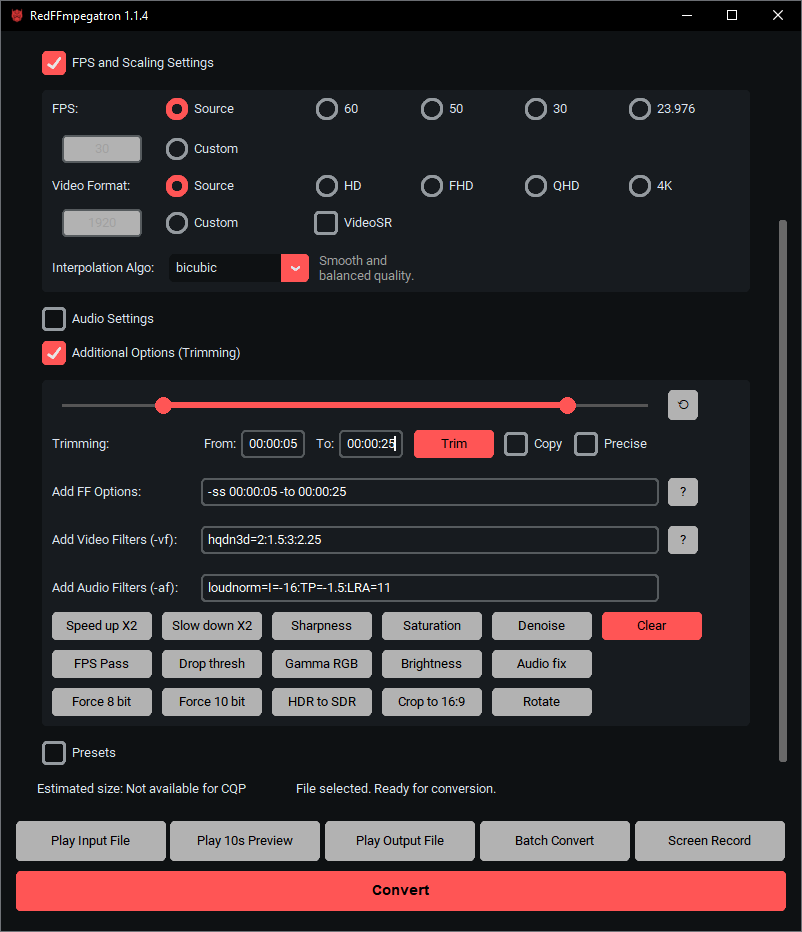
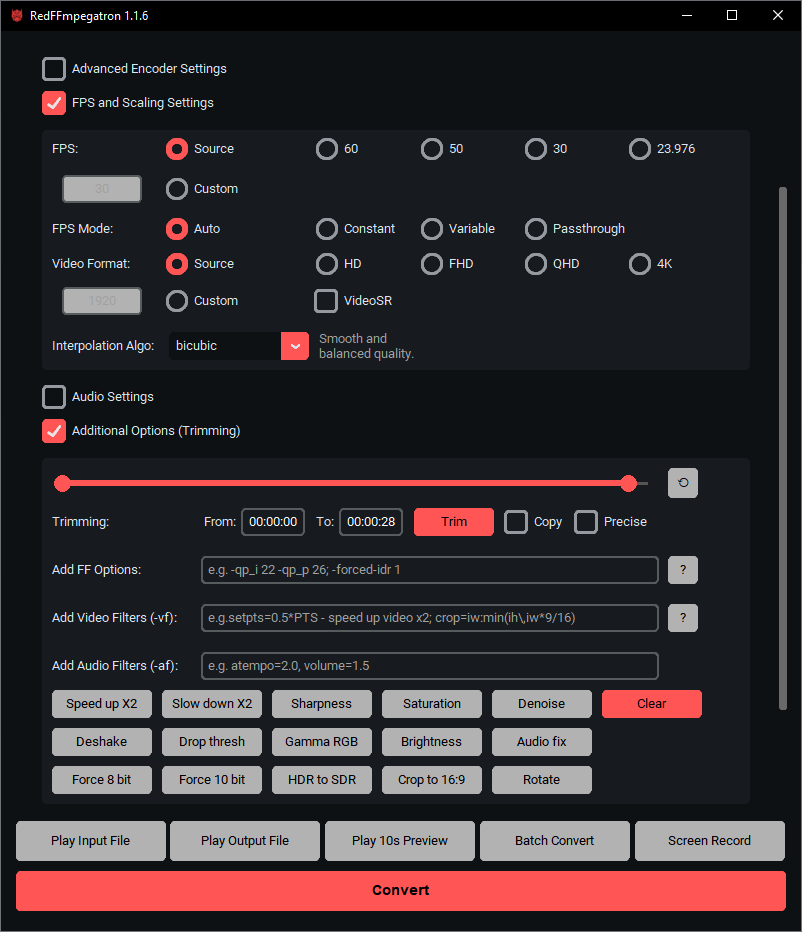
Release 1.1.6

diff --git a/RedFFmpegatron.py b/RedFFmpegatron.py
@@ -527,7 +527,7 @@ class VideoConverterApp:
         self.batch_files = []
         self.video_metadata_cache = {}
         self.master = master
-        master.title("RedFFmpegatron 1.1.5")
+        master.title("RedFFmpegatron 1.1.6")
         master.geometry("800x700")
         master.minsize(800, 700)
         master.maxsize(800, 900)
@@ -638,6 +638,7 @@ class VideoConverterApp:
         # FPS and Scaling Settings
         self.fps_option.trace_add("write", lambda *args: self._on_setting_changed())
         self.custom_fps.trace_add("write", lambda *args: self._on_setting_changed())
+        self.fps_mode.trace_add("write", lambda *args: self._on_setting_changed())
         self.video_format_option.trace_add(
             "write", lambda *args: self._on_setting_changed()
         )
@@ -681,6 +682,7 @@ class VideoConverterApp:
         self.enable_fps_scale_options = ctk.BooleanVar(value=False)
         self.fps_option = ctk.StringVar(value="source")
         self.custom_fps = ctk.StringVar(value="30")
+        self.fps_mode = ctk.StringVar(value="auto")
         self.video_format_option = ctk.StringVar(value="source")
         self.custom_video_width = ctk.StringVar(value="1920")
         self.interpolation_algo = ctk.StringVar(value="bicubic")
@@ -738,6 +740,8 @@ class VideoConverterApp:
         # Screen recording variables
         self.is_recording = False
         self.recording_process = None
+        # Preview 10s
+        self.preview_process = None
 
     def _create_widgets(self):
         # Build the entire GUI interface
@@ -1304,9 +1308,32 @@ class VideoConverterApp:
         self.custom_fps_entry.grid(row=2, column=0, sticky="w", padx=20)
         self.custom_fps_entry.configure(state="disabled")
 
+        # FPS Mode
+        ctk.CTkLabel(self.fps_scale_options_frame, text="FPS Mode:").grid(
+            row=3, column=0, sticky="w", padx=10, pady=5
+        )
+
+        fps_mode_options = [
+            ("Auto", "auto"),
+            ("Constant", "cfr"),
+            ("Variable", "vfr"),
+            ("Passthrough", "passthrough"),
+        ]
+
+        for i, (text, value) in enumerate(fps_mode_options):
+            rb = ctk.CTkRadioButton(
+                self.fps_scale_options_frame,
+                text=text,
+                variable=self.fps_mode,
+                value=value,
+                fg_color=ACCENT_RED,
+                hover_color=HOVER_RED,
+            )
+            rb.grid(row=3, column=i + 1, sticky="w", padx=2)
+
         # Video Format
         ctk.CTkLabel(self.fps_scale_options_frame, text="Video Format:").grid(
-            row=3, column=0, sticky="w", padx=10, pady=2
+            row=4, column=0, sticky="w", padx=10, pady=2
         )
         video_format_options = [
             ("Source", "source"),
@@ -1326,7 +1353,7 @@ class VideoConverterApp:
                 fg_color=ACCENT_RED,
                 hover_color=HOVER_RED,
             )
-            rb.grid(row=3, column=i + 1, sticky="w", padx=2)
+            rb.grid(row=4, column=i + 1, sticky="w", padx=2)
 
         # Custom Video Format
         rb_custom_video = ctk.CTkRadioButton(
@@ -1338,7 +1365,7 @@ class VideoConverterApp:
             fg_color=ACCENT_RED,
             hover_color=HOVER_RED,
         )
-        rb_custom_video.grid(row=4, column=1, sticky="w", padx=2, pady=10)
+        rb_custom_video.grid(row=5, column=1, sticky="w", padx=2, pady=10)
 
         self.custom_video_width_entry = ctk.CTkEntry(
             self.fps_scale_options_frame,
@@ -1348,12 +1375,12 @@ class VideoConverterApp:
             fg_color=ACCENT_GREY,
             text_color=PLACEHOLDER_COLOR,
         )
-        self.custom_video_width_entry.grid(row=4, column=0, sticky="w", padx=20)
+        self.custom_video_width_entry.grid(row=5, column=0, sticky="w", padx=20)
         self.custom_video_width_entry.configure(state="disabled")
 
         # Interpolation
         ctk.CTkLabel(self.fps_scale_options_frame, text="Interpolation Algo:").grid(
-            row=5, column=0, sticky="w", padx=10, pady=10
+            row=6, column=0, sticky="w", padx=10, pady=10
         )
 
         self.interpolation_description = ctk.StringVar(
@@ -1373,7 +1400,7 @@ class VideoConverterApp:
             dropdown_fg_color=SECONDARY_BG,
             dropdown_hover_color=ACCENT_RED,
         )
-        interp_option_menu.grid(row=5, column=1, sticky="ew", padx=5, pady=2)
+        interp_option_menu.grid(row=6, column=1, sticky="ew", padx=5, pady=2)
 
         ctk.CTkLabel(
             self.fps_scale_options_frame,
@@ -1382,7 +1409,7 @@ class VideoConverterApp:
             wraplength=100,
             anchor="w",
             justify="left",
-        ).grid(row=5, column=2, sticky="w", padx=5)
+        ).grid(row=6, column=2, sticky="w", padx=5)
 
         # VideoSR Checkbox
         self.videosr_checkbox = ctk.CTkCheckBox(
@@ -1393,14 +1420,14 @@ class VideoConverterApp:
             fg_color=ACCENT_RED,
             hover_color=HOVER_RED,
         )
-        self.videosr_checkbox.grid(row=4, column=2, sticky="w")
+        self.videosr_checkbox.grid(row=5, column=2, sticky="w")
 
         # VideoSR Options Frame
         self.videosr_options_frame = ctk.CTkFrame(
             self.fps_scale_options_frame, fg_color="transparent"
         )
         self.videosr_options_frame.grid(
-            row=5, column=0, columnspan=4, sticky="ew", padx=10, pady=5
+            row=6, column=0, columnspan=4, sticky="ew", padx=10, pady=5
         )
 
         # Algorithm
@@ -1830,11 +1857,13 @@ class VideoConverterApp:
             row=6, column=0, columnspan=3, sticky="w", padx=10, pady=(0, 10)
         )
 
-        # FPS passtrough button
+        # Deshake video
         ctk.CTkButton(
             quick_buttons_frame_2,
-            text="FPS Pass",
-            command=lambda: self._add_additional_option("-fps_mode passthrough"),
+            text="Deshake",
+            command=lambda: self._add_video_filter(
+                "deshake=rx=32:ry=32:edge=3:blocksize=32:contrast=200:search=0"
+            ),
             fg_color=ACCENT_GREY,
             hover_color=HOVER_GREY,
             text_color=TEXT_COLOR_B,
@@ -2037,17 +2066,6 @@ class VideoConverterApp:
         self.play_input_button.pack(side="left", expand=True, fill="x", padx=(0, 2))
         self.play_input_button.configure(command=self._play_input_file)
 
-        self.play10s_button = ctk.CTkButton(
-            self.play_buttons_frame,
-            text="Play 10s Preview",
-            fg_color=ACCENT_GREY,
-            hover_color=HOVER_GREY,
-            text_color=TEXT_COLOR_B,
-            height=40,
-        )
-        self.play10s_button.pack(side="left", expand=True, fill="x", padx=(2, 2))
-        self.play10s_button.configure(command=self._create_10s_preview)
-
         self.play_output_button = ctk.CTkButton(
             self.play_buttons_frame,
             text="Play Output File",
@@ -2058,6 +2076,17 @@ class VideoConverterApp:
         )
         self.play_output_button.pack(side="left", expand=True, fill="x", padx=(2, 2))
         self.play_output_button.configure(command=self._play_output_file)
+
+        self.play10s_button = ctk.CTkButton(
+            self.play_buttons_frame,
+            text="Play 10s Preview",
+            fg_color=ACCENT_GREY,
+            hover_color=HOVER_GREY,
+            text_color=TEXT_COLOR_B,
+            height=40,
+        )
+        self.play10s_button.pack(side="left", expand=True, fill="x", padx=(2, 2))
+        self.play10s_button.configure(command=self._create_10s_preview)
 
         self.batch_convert_button = ctk.CTkButton(
             self.play_buttons_frame,
@@ -2152,6 +2181,27 @@ class VideoConverterApp:
             and self.batch_converter_window.is_converting
         ):
             self.batch_converter_window.cancel_batch_conversion()
+
+    def _cancel_preview(self):
+        """Cancel preview creation"""
+        if self.is_creating_preview and self.preview_process:
+            try:
+                self.preview_process.terminate()
+                self.preview_process.wait(timeout=2)
+            except (subprocess.TimeoutExpired, Exception):
+                try:
+                    self.preview_process.kill()
+                except Exception:
+                    pass
+
+            self.is_creating_preview = False
+            self.preview_process = None
+            self.status_text.set("Preview creation cancelled")
+            self.ffmpeg_output.set("")
+            self.progress_frame.grid_remove()
+            self.play10s_button.configure(
+                text="Play 10s Preview", fg_color=ACCENT_GREY, hover_color=HOVER_GREY
+            )
 
     def _open_batch_converter(self):
         if (
@@ -2394,11 +2444,18 @@ class VideoConverterApp:
 
     def _create_10s_preview(self):
         """Create a 10-second preview with current settings"""
+        if self.is_creating_preview:
+            # If preview is being created, cancel it
+            self._cancel_preview()
+            return
+
+        self.preview_process = None
+
         if self.trim_streamcopy.get():
             messagebox.showerror("Error", "Preview is not available in Streamcopy mode")
             return
 
-        if self.is_converting or self.is_creating_preview:
+        if self.is_converting:
             messagebox.showerror("Error", "Please wait until current process completes")
             return
 
@@ -2520,10 +2577,16 @@ class VideoConverterApp:
             self.progress_label.configure(text="0%")
             self.progress_frame.grid()
 
+            # Update button to show cancel state
+            self.play10s_button.configure(
+                text="Cancel Preview", fg_color=ACCENT_RED, hover_color=HOVER_RED
+            )
+
             # Start encoding in separate thread
             preview_thread = Thread(
                 target=self._run_preview_encoding, args=(encode_cmd, temp_encoded)
             )
+            preview_thread.daemon = True
             preview_thread.start()
 
         except Exception as e:
@@ -2793,6 +2856,10 @@ class VideoConverterApp:
                 if custom_fps:
                     self.custom_fps.set(custom_fps)
 
+                fps_mode = settings.get("fps_mode", "")
+                if fps_mode:
+                    self.fps_mode.set(fps_mode)
+
                 video_format_option = settings.get("video_format_option", "")
                 if video_format_option:
                     self.video_format_option.set(video_format_option)
@@ -2917,6 +2984,7 @@ class VideoConverterApp:
                 # FPS and scaling settings
                 "fps_option": self.fps_option.get(),
                 "custom_fps": self.custom_fps.get(),
+                "fps_mode": self.fps_mode.get(),
                 "video_format_option": self.video_format_option.get(),
                 "custom_video_width": self.custom_video_width.get(),
                 # Encoder Flags
@@ -2925,7 +2993,7 @@ class VideoConverterApp:
                 "preanalysis": self.preanalysis.get(),
                 "max_pa": self.max_pa.get(),
                 "smart_access_video": self.smart_access_video.get(),
-                "version": "1.1.5",
+                "version": "1.1.6",
             }
 
             with open(settings_file, "w", encoding="utf-8") as file:
@@ -3219,6 +3287,9 @@ class VideoConverterApp:
 
         if vf_filters:
             command.extend(["-vf", ",".join(vf_filters)])
+
+        if self.fps_mode.get() != "auto":
+            command.extend(["-fps_mode", self.fps_mode.get()])
 
         # AMF encoder specific settings
         codec_map = {"hevc": "hevc_amf", "av1": "av1_amf"}
@@ -4426,22 +4497,37 @@ class VideoConverterApp:
                 encoding="utf-8",
                 errors="replace",
             )
+            self.preview_process = process
 
             # Process output in real-time
             for line in process.stdout:
+                if not self.is_creating_preview:  # Check if cancelled
+                    process.terminate()
+                    break
+
                 if line:
-                    self.master.after(0, lambda: self.ffmpeg_output.set(line))
-                    self.master.after(0, lambda: self._update_preview_progress(line))
+                    self.master.after(
+                        0, lambda line_text=line: self.ffmpeg_output.set(line_text)
+                    )
+                    self.master.after(
+                        0,
+                        lambda line_text=line: self._update_preview_progress(line_text),
+                    )
 
             process.wait()
 
-            if process.returncode == 0:
+            if process.returncode == 0 and self.is_creating_preview:
                 self.master.after(
                     0, lambda: self.status_text.set("Preview created successfully!")
                 )
                 self.master.after(0, lambda: self.ffmpeg_output.set(""))
                 # Play the result
-                os.startfile(output_path)
+                if os.path.exists(output_path):
+                    os.startfile(output_path)
+            elif not self.is_creating_preview:
+                self.master.after(
+                    0, lambda: self.status_text.set("Preview creation cancelled")
+                )
             else:
                 self.master.after(
                     0, lambda: self.status_text.set("Preview creation failed!")
@@ -4453,6 +4539,16 @@ class VideoConverterApp:
         finally:
             self.master.after(0, lambda: self.progress_frame.grid_remove())
             self.is_creating_preview = False
+            self.preview_process = None
+            # Reset button to normal state
+            self.master.after(
+                0,
+                lambda: self.play10s_button.configure(
+                    text="Play 10s Preview",
+                    fg_color=ACCENT_GREY,
+                    hover_color=HOVER_GREY,
+                ),
+            )
 
     def _update_preview_progress(self, line):
         """Update progress for preview encoding"""

diff --git a/README.md b/README.md
@@ -105,8 +105,8 @@ You can compile the Python script into a standalone Windows executable (`.exe`) 
       --include-data-file=rff-about.txt=./rff-about.txt ^
       --include-data-file=rff-license.txt=./rff-license.txt ^
       --product-name="RedFFmpegatron" ^
-      --product-version="1.1.5" ^
-      --file-version="1.1.5" ^
+      --product-version="1.1.6" ^
+      --file-version="1.1.6" ^
       --file-description="RedFFmpegatron" ^
       --company-name="Deepseek Enjoyer" ^
       --copyright="Copyright (C) 2025 hadouken" ^

diff --git a/CHANGELOG.md b/CHANGELOG.md
@@ -1,5 +1,10 @@
 # RedFFmpegatron - Changelog
 
+## [1.1.6] - 2025-10-25
+- Added "FPS Mode";
+- Added "Cancel" for "Play 10s Preview" button;
+- Added "Deshake" filter button.
+
 ## [1.1.5] - 2025-10-18
 - Screen recording now respects the "Preset" parameter value;
 - The clipboard is now preserved even after closing the program (for example, a copied ffmpeg command).
